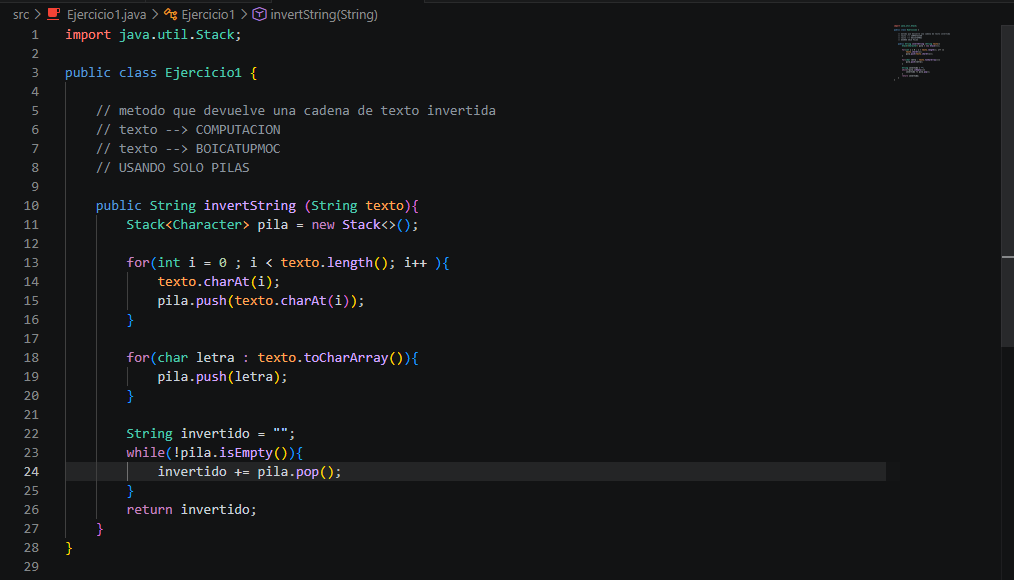
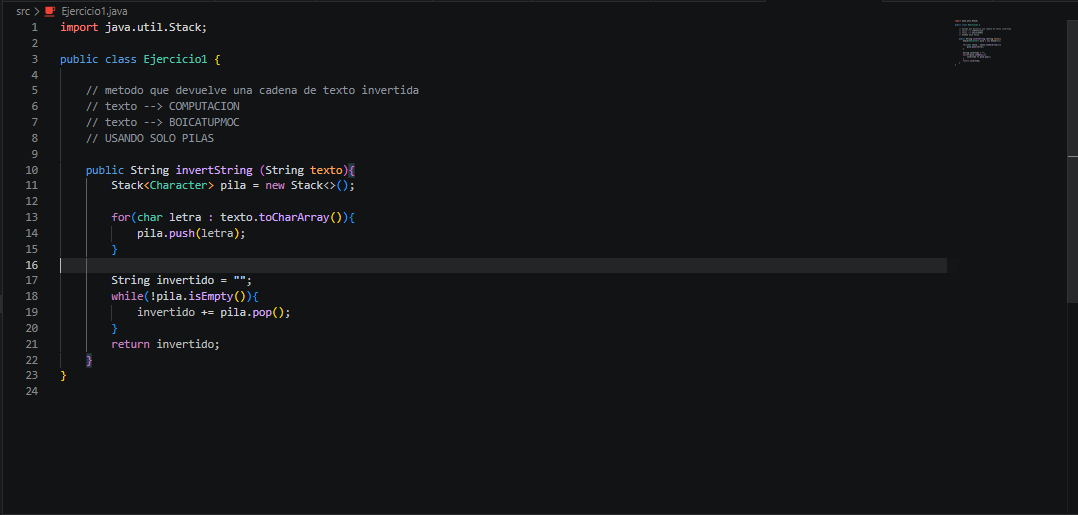
correcciones en imagenes y readme

diff --git a/README.md b/README.md
@@ -25,9 +25,14 @@ Estas son las estructuras dinamicas lineales:
 
 Ejercicio1: invertir el String "COMPUTACION", solo usando pilas 
 
-Imagenes Ejercio1
+Imagenes Ejercio1:
+
+- metodo
 ![alt text](assets/metodo.png)
+- app
 ![alt text](assets/app.png)
+- ejecución 
+
 ![alt text](assets/ejecucion.png)
 
 ---
@@ -40,7 +45,12 @@ Ejercicio2: Crear un metodo en el cual comprube si una palabra es polindromo sol
 - Palabra2: "computacion"
 - Palabra propia para validar con mayusculas: "Radar"
 
-Imagenes Ejercio2
+Imagenes Ejercio2:
+
+- metodo
 ![alt text](assets/metodo2.png)
+- app
 ![alt text](assets/app2.png)
+- ejecución 
+
 ![alt text](assets/ejecucion2.png)
